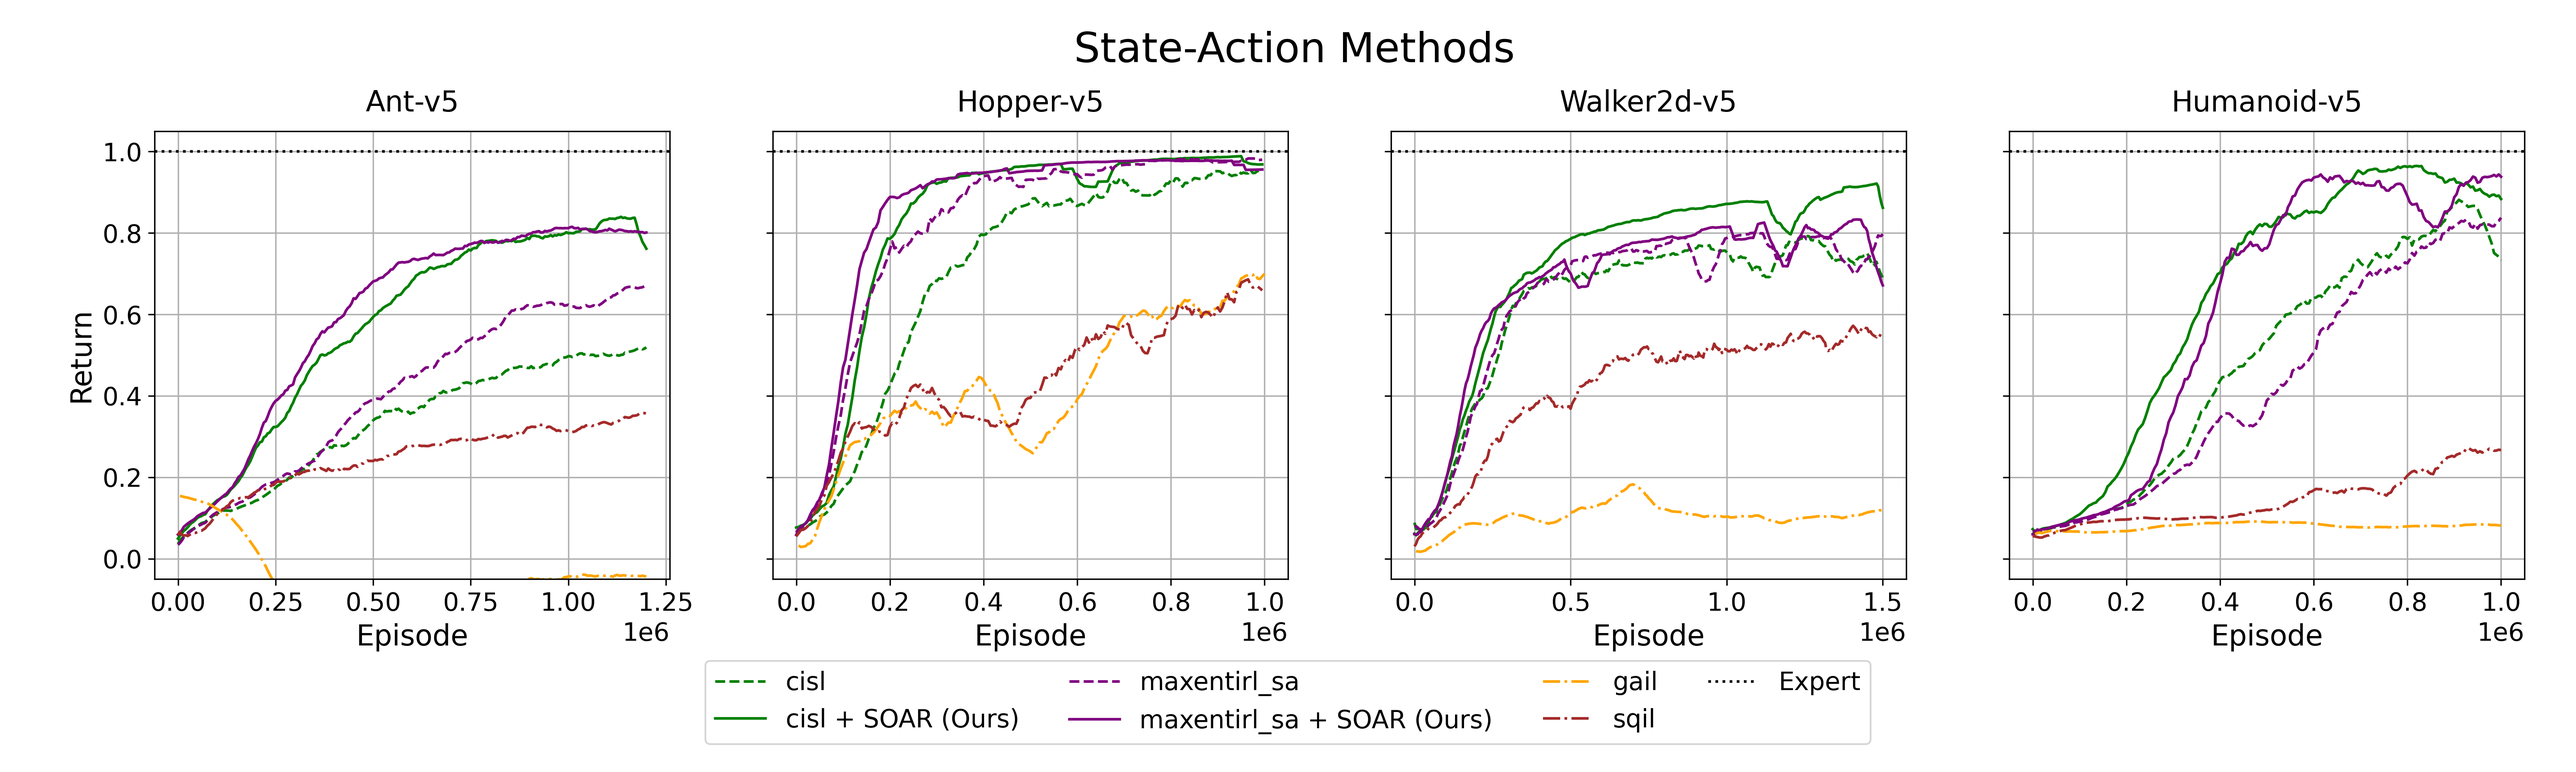
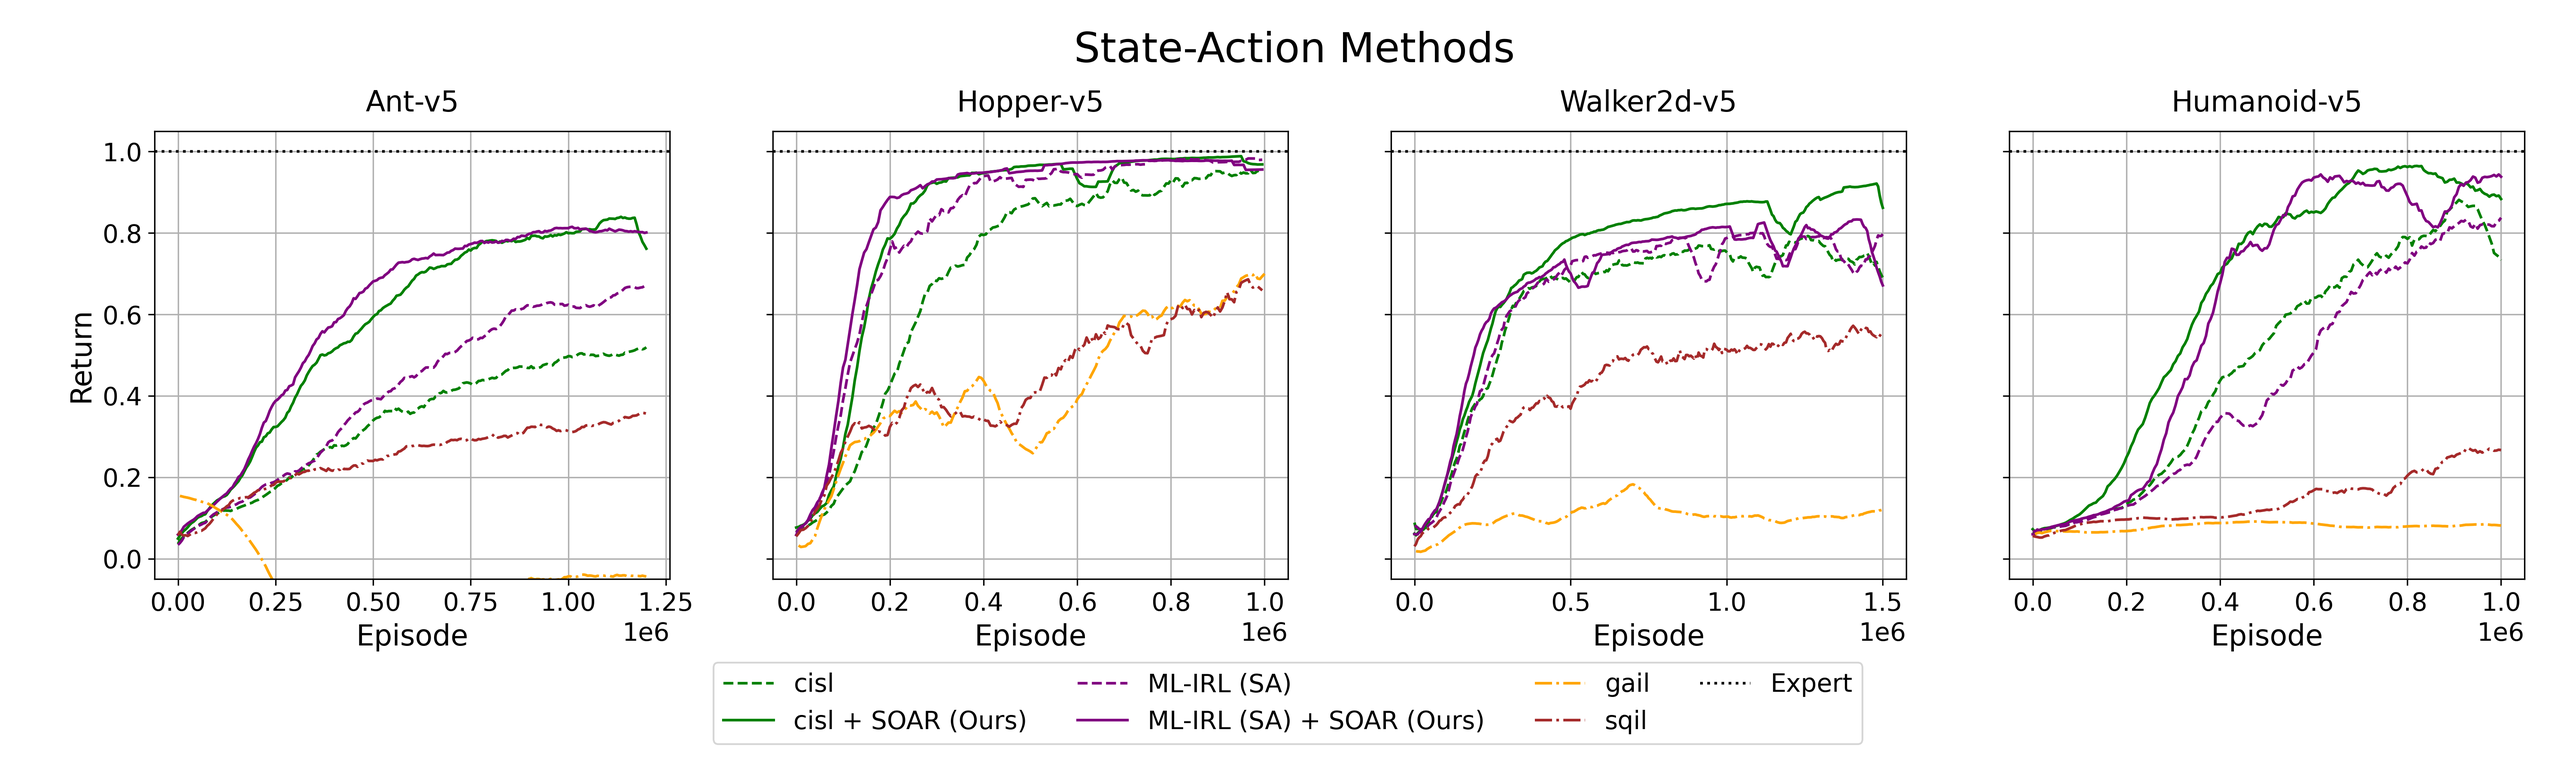
new plots

Changed region(s): [[0.2805, 0.84, 0.7168, 0.9644]]

diff --git a/plots/plot_q_bestclip_baselines.py b/plots/plot_q_bestclip_baselines.py
@@ -27,12 +27,12 @@ ENVIRONMENTS = [
 ]
 
 # Methods (two lines each: q=1 [dashed], best q [solid])
-METHODS = ["cisl", "maxentirl_sa"]
-# METHODS = ["maxentirl", "rkl"]
+# METHODS = ["cisl", "maxentirl_sa"]
+METHODS = ["maxentirl", "rkl"]
 
 # Baselines (one line each: dash-dot)
-BASELINES = ["gail", "sqil"]
-# BASELINES = ["opt-AIL"]
+# BASELINES = ["gail", "sqil"]
+BASELINES = ["opt-AIL"]
 
 # Unique colors for each method
 METHOD_COLORS = {
@@ -40,6 +40,14 @@ METHOD_COLORS = {
     "rkl": "red",
     "cisl": "green",          
     "maxentirl_sa": "purple",
+}
+
+# Dictionary to map internal method names to display names
+METHOD_DISPLAY_NAMES = {
+    "maxentirl": "ML-IRL",
+    "maxentirl_sa": "ML-IRL (SA)",
+    "cisl": "cisl",
+    "rkl": "rkl"
 }
 
 # Unique colors for baselines
@@ -168,14 +176,6 @@ def parse_expert_det_return(expert_txt_path: str) -> float:
 def plot_environment(env_name: str, ax: plt.Axes, idx: int):
     """
     Plots data for a single environment onto a given Axes.
-    
-    - We standardize the returns by the expert's return, so expert = 1.0.
-    - We leave some space below 0 and above 1 (e.g., -0.05 to 1.05).
-    - We show a dashed line at y=1 labeled "Expert = 1".
-    - For q=1 line => label is the method name (if best_q != 4); otherwise no legend label.
-    - For best_q=4 => label = "method + SOAR". For any other best_q => no legend label.
-    - Baselines => single line each, labeled only once across subplots (this is handled by the final legend merging).
-    - Only the first subplot has a y-label. Others have none.
     """
     print(f"=== Processing environment: {env_name} ===")
 
@@ -243,9 +243,8 @@ def plot_environment(env_name: str, ax: plt.Axes, idx: int):
             q1_data['smoothed'] = q1_data['std_return'].rolling(SMOOTHING_WINDOW, min_periods=1).mean()
             
             best_q, best_clip = method_best[method]
-            # Label logic
-
-            line_label = method  # e.g., "maxentirl"
+            # Use display name instead of internal method name
+            line_label = METHOD_DISPLAY_NAMES.get(method, method)
             
             ax.plot(
                 q1_data['episode'],
@@ -268,7 +267,8 @@ def plot_environment(env_name: str, ax: plt.Axes, idx: int):
                 
                 # If best_q=4 => "method + SOAR", else => "_nolegend_"
                 if best_q == 4:
-                    best_label = f"{method} + SOAR (Ours)"
+                    display_name = METHOD_DISPLAY_NAMES.get(method, method)
+                    best_label = f"{display_name} + SOAR (Ours)"
                 else:
                     best_label = "_nolegend_"
                 
@@ -298,13 +298,6 @@ def plot_environment(env_name: str, ax: plt.Axes, idx: int):
     
     # (c) Expert line at y=1.0
     ax.axhline(y=1.0, color='black', linestyle=':', label='Expert')
-    # ax.text(
-    #     0.02, 1.01,  # x=2% from the left, y=1% above the line
-    #     "Expert = 1",
-    #     transform=ax.get_yaxis_transform(),
-    #     ha='left', va='bottom',
-    #     color='black'
-    # )
     
     # (d) Decorate
     ax.set_title(env_name, y=1.02)  # move title a bit higher
@@ -323,7 +316,7 @@ def main():
     n_envs = len(ENVIRONMENTS)
     fig, axes = plt.subplots(
         1, n_envs,
-        figsize=(5 * n_envs, 6),  # <- increase height from 4 to 6
+        figsize=(5 * n_envs, 6),
         sharey=True
     )
 
@@ -348,8 +341,7 @@ def main():
         if l not in by_label:
             by_label[l] = h
     
-    # Place legend near the bottom, a bit lower than default
-    # Adjust 'bbox_to_anchor' as needed
+    # Place legend
     fig.legend(
         by_label.values(),
         by_label.keys(),
@@ -359,19 +351,17 @@ def main():
     )
     
     # Adjust spacing
-    # top=0.88 => leave some space for the suptitle
-    # bottom=0.08 => to accommodate the legend
     fig.subplots_adjust(
-        top=0.83,    # move the top boundary down a bit
-        bottom=0.25, # move the bottom boundary up a bit
+        top=0.83,
+        bottom=0.25,
         left=0.06,
         right=0.98
     )
 
     fig.suptitle(
-        " State‐Action Methods",
+        " State‐Only Methods",
         y=0.96,
-        fontsize=23  # <-- set a larger font size
+        fontsize=23
     )
 
     out_dir = Path("plots")
